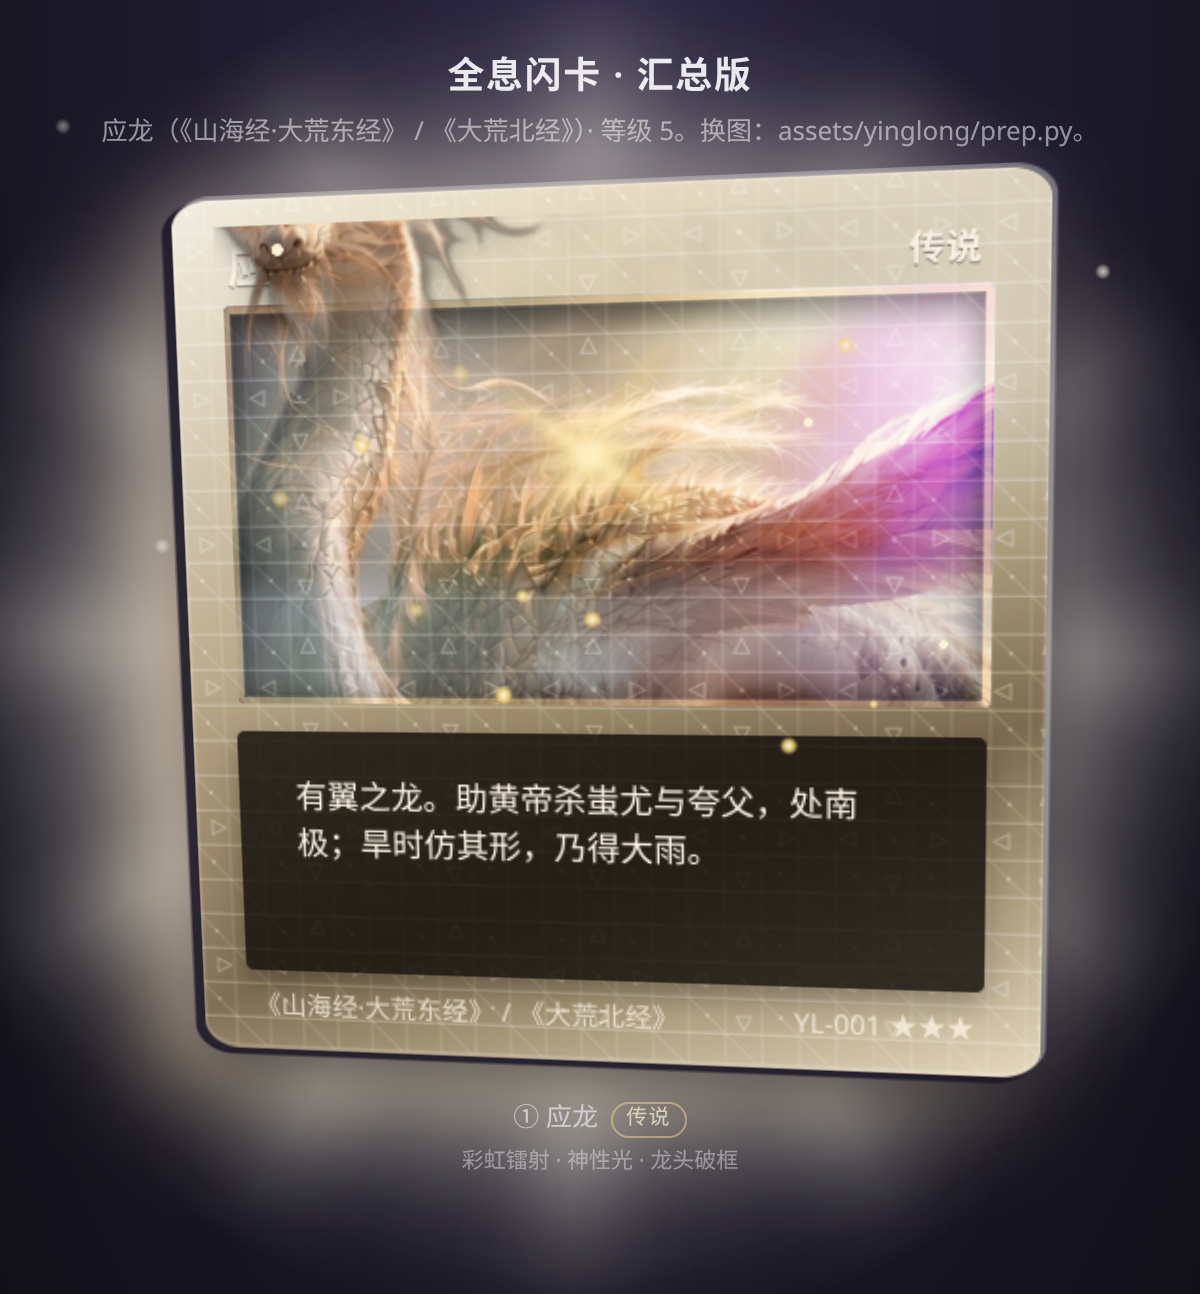
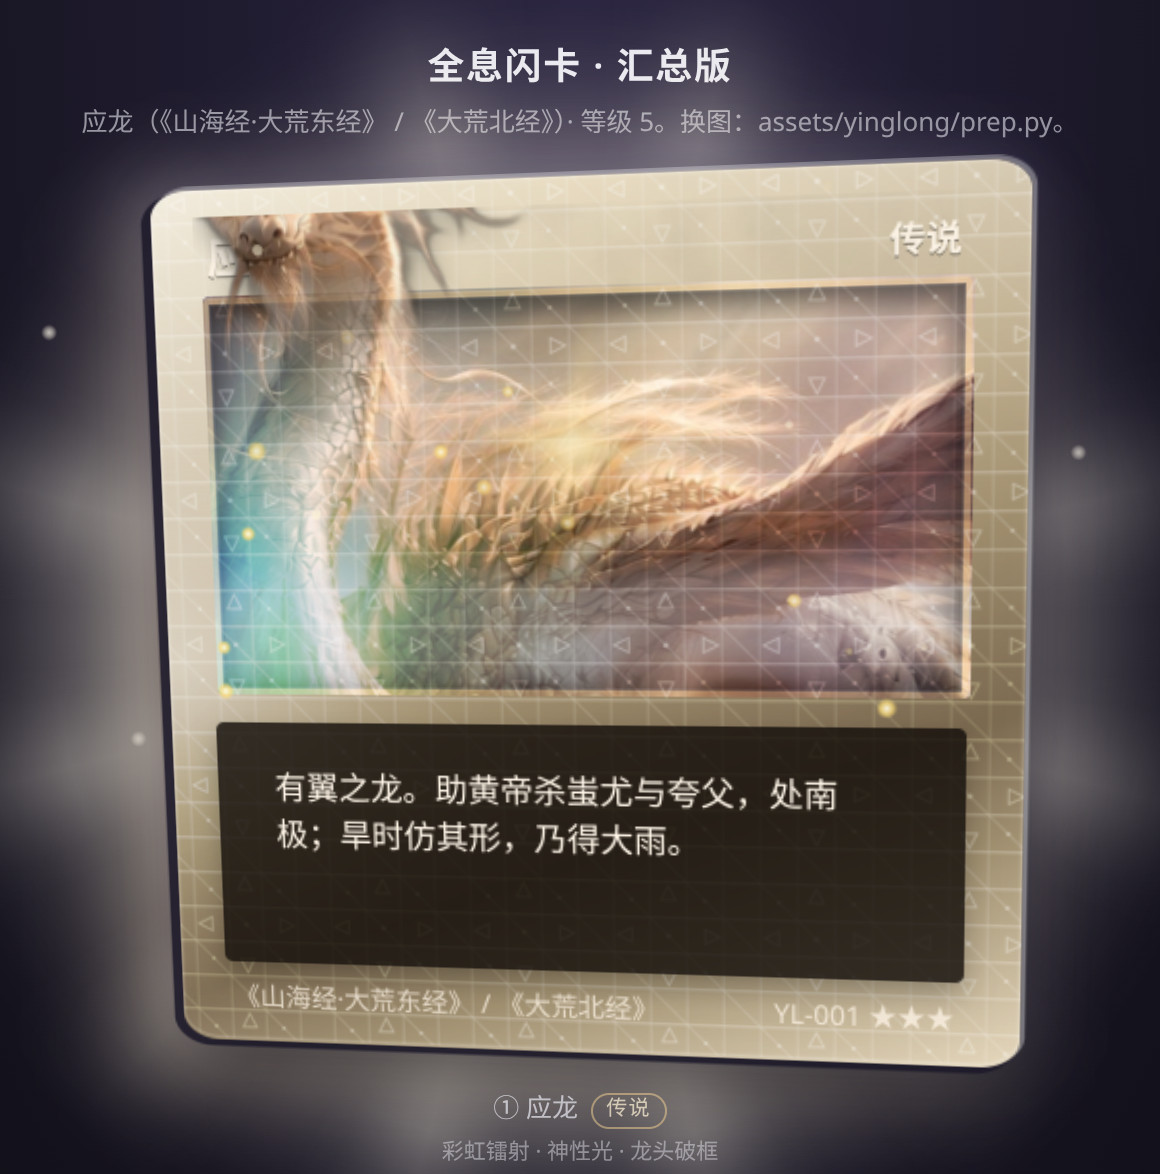
all-in-one: 真实闪卡反光（固定光源 + 倾斜扫箔）；应龙文案/样张/破框克制
指针/陀螺仪只驱动倾斜；--px/--py 由 lightFromTilt(rx,ry) 相对固定环境光导出。
应龙用大荒东经/北经短版与 d0d06c99 样张；破框与粒子外溢收进框内。

diff --git a/index.html b/index.html
@@ -441,14 +441,14 @@ p.tip { margin: 0; opacity: .6; font-size: 13px; max-width: 42em; line-height: 1
   pointer-events: none;
 }
 
-/* 指针在“远景层自身坐标”里的位置（远景层比卡片小、且偏上，需要换算） */
+/* 倾斜反射光在远景层坐标里的落点（--px/--py 由 JS 按固定环境光 + rx/ry 导出，不是指针 UV） */
 .win__bg {
   --lx: calc(var(--px) / 100 * var(--card-w) - (var(--win-l) * var(--card-w) - var(--bleed)));
   --ly: calc(var(--py) / 100 * var(--card-h) - (var(--win-t) * var(--card-h) - var(--bleed)));
 }
 
-/* 指针附近才明显、远处很淡的遮罩（多段色标近似 smoothstep，没有一圈“光的边缘”）
-   插画箔：以像素为半径（远景层尺寸与卡片不同）；卡框箔：以百分比为半径（卡框 = 整张卡） */
+/* 反射高光附近才明显、远处很淡的遮罩（多段色标近似 smoothstep）
+   插画箔：以像素为半径；卡框箔：以百分比为半径。落点随倾斜扫过，非指哪亮哪 */
 .foil { --far: .15; }
 .foil--art {
   --reach-px: 170px;
@@ -467,7 +467,7 @@ p.tip { margin: 0; opacity: .6; font-size: 13px; max-width: 42em; line-height: 1
 }
 .foil--frame {
   --reach-pct: 60%;
-  --pointer-mask: radial-gradient(circle at calc(var(--px) * 1%) calc(var(--py) * 1%),
+  --pointer-mask: radial-gradient(circle at calc(var(--px) * 1%) calc(var(--py) * 1%),  /* 名称为历史遗留：实为倾斜反射光 */
     #000 0%,
     rgba(0,0,0, calc(var(--far) + (1 - var(--far)) * .85)) calc(var(--reach-pct) * .25),
     rgba(0,0,0, calc(var(--far) + (1 - var(--far)) * .5))  calc(var(--reach-pct) * .5),
@@ -495,7 +495,7 @@ p.tip { margin: 0; opacity: .6; font-size: 13px; max-width: 42em; line-height: 1
 /* inverse：反闪 → 只有卡框箔（插画窗口不透明挡住；文字面板半透明透出箔光），关掉插画箔 */
 .card[data-mask="inverse"] .foil--art { display: none; }
 
-/* ---------- 高光：跟随指针的柔和光斑（在卡框层平面内：盖住卡框与窗口，但不盖文字和角色） ---------- */
+/* ---------- 高光：固定环境光在倾斜卡面上的镜面斑（盖住卡框与窗口，不盖文字和角色） ---------- */
 .glare {
   --glare-strength: .45;
   --glare-r: 180px;
@@ -507,7 +507,8 @@ p.tip { margin: 0; opacity: .6; font-size: 13px; max-width: 42em; line-height: 1
     rgba(255,255,255, calc(var(--glare-strength) * .07)) 80%,
     rgba(255,255,255, 0) 100%);
   mix-blend-mode: overlay;
-  opacity: var(--o);
+  /* 悬停增强 + 倾斜时也保留一点膜面反光 */
+  opacity: calc(var(--o) * 0.75 + var(--tilt) * 0.35);
 }
 
 /* ---------- 边缘光（假菲涅尔）：倾斜越大，卡缘越亮（来自 foil-mask） ---------- */
@@ -560,7 +561,7 @@ p.tip { margin: 0; opacity: .6; font-size: 13px; max-width: 42em; line-height: 1
   background-blend-mode: soft-light;
   filter: brightness(calc(.6 + var(--dist) * .25)) contrast(1.1) saturate(1.15);
   mix-blend-mode: color-dodge;
-  opacity: calc(var(--o) * var(--holo-max));
+  opacity: calc((0.14 + var(--o) * 0.86) * var(--holo-max) * (0.4 + var(--tilt) * 0.6));
 }
 
 /* ---- 闪光星点 ---- */
@@ -580,7 +581,7 @@ p.tip { margin: 0; opacity: .6; font-size: 13px; max-width: 42em; line-height: 1
     calc(var(--px) * 0.7px) calc(var(--py) * 0.6px),
     calc(var(--px) * 1%) calc(var(--py) * 1%);
   mix-blend-mode: color-dodge;
-  opacity: calc(var(--o) * var(--glitter-max));
+  opacity: calc((0.12 + var(--o) * 0.88) * var(--glitter-max) * (0.4 + var(--tilt) * 0.6));
 }
 
 /* ---- 金属拉丝 ---- */
@@ -2018,7 +2019,7 @@ body.no-rarity .pk .pk__zoom .card .layer--sfx { display: none; }
 
 <script>
 /* =========================================================
-   交互：指针 / 陀螺仪 → 目标值 → 物理弹簧（按真实时间积分，与屏幕刷新率无关）→ CSS 变量
+   交互：指针 / 陀螺仪只驱动倾斜；镭射/高光位置由固定环境光相对倾斜角反射得到 → 弹簧 → CSS 变量
    性能：
      · 每张卡各自一个 rAF 循环，只在弹簧还在动时运行 → 只有正在交互的那张卡在跑动画
      · 体感只驱动视口里的卡（IntersectionObserver）；滚出视口的卡粒子动画暂停
@@ -2040,6 +2041,16 @@ const FX_NAMES = { foil: '镭射', etch: '压纹', rim: '边缘光', depth: '视
 
 const reduceMotion = window.matchMedia('(prefers-reduced-motion: reduce)');
 const clamp = (v, min = 0, max = 100) => Math.min(max, Math.max(min, v));
+/** 固定环境光（斜上方偏左）：反光 UV 随倾斜扫过卡面，不是指针聚光灯 */
+const LIGHT = { u0: 40, v0: 34, sweepX: 36, sweepY: 32 };  // 静止偏左上；满倾扫到对角侧，少贴 0/100 边
+/** rx/ry（度）→ 箔面/高光落点（卡面 %）。右缘抬起时高光向左扫，下缘抬起时高光向上扫。 */
+function lightFromTilt(rx, ry) {
+  const t = CONFIG.maxTilt || 1;
+  return {
+    px: clamp(LIGHT.u0 + (rx / t) * LIGHT.sweepX),
+    py: clamp(LIGHT.v0 - (ry / t) * LIGHT.sweepY),
+  };
+}
 const $ = (s, root = document) => root.querySelector(s);
 const $$ = (s, root = document) => [...root.querySelectorAll(s)];
 
@@ -2075,7 +2086,8 @@ class Spring {
 
 /* ---------- 单张卡 ---------- */
 function setupCard(card) {
-  const motion = new Spring({ rx: 0, ry: 0, px: 50, py: 50 }, CONFIG.follow); // 倾斜 + 光点位置
+  const restL = lightFromTilt(0, 0);
+  const motion = new Spring({ rx: 0, ry: 0, px: restL.px, py: restL.py }, CONFIG.follow); // 倾斜 + 由倾斜导出的反光 UV
   const glow = new Spring({ o: 0 }, CONFIG.fade);                              // 光泽强度
   let raf = 0, last = 0, lastPointerAt = 0, pointerActive = false;
   const self = { el: card, visible: true };
@@ -2110,23 +2122,27 @@ function setupCard(card) {
     kick();
   };
   const settle = () => {
-    if (gyro.enabled && gyro.pose && !reduceMotion.matches) {   // 体感开着：回到体感姿态
-      const p = gyro.pose; applyPose(p.rx, p.ry, p.px, p.py, 1, CONFIG.settle); return;
+    if (gyro.enabled && gyro.pose && !reduceMotion.matches) {   // 体感开着：回到体感姿态（反光仍由角度导出）
+      const p = gyro.pose; const L = lightFromTilt(p.rx, p.ry);
+      applyPose(p.rx, p.ry, L.px, L.py, 1, CONFIG.settle); return;
     }
-    motion.set({ rx: 0, ry: 0, px: 50, py: 50 }, CONFIG.settle);
+    const L = lightFromTilt(0, 0);
+    motion.set({ rx: 0, ry: 0, px: L.px, py: L.py }, CONFIG.settle);
     glow.set({ o: 0 });
     kick();
   };
 
   const onMove = (e) => {
     lastPointerAt = performance.now(); pointerActive = true;
-    // 用 .card（未旋转的外框）测量：倾斜和破框角色都不会让坐标跳动；破框热区里 py 被限幅为 0
+    // 用 .card（未旋转的外框）测量：只把指针映射成倾斜角；反光 UV 另由 lightFromTilt 算出
     const r = card.getBoundingClientRect();
-    const px = clamp(((e.clientX - r.left) / r.width) * 100);
-    const py = clamp(((e.clientY - r.top) / r.height) * 100);
+    const u = clamp(((e.clientX - r.left) / r.width) * 100);
+    const v = clamp(((e.clientY - r.top) / r.height) * 100);
     const tilt = CONFIG.maxTilt;
     // 指针所在一侧抬向观众：rotateY 负值 → 右边缘靠近；rotateX 正值 → 下边缘靠近
-    applyPose(-((px - 50) / 50) * tilt, ((py - 50) / 50) * tilt, px, py, 1, CONFIG.follow);
+    const rx = -((u - 50) / 50) * tilt, ry = ((v - 50) / 50) * tilt;
+    const L = lightFromTilt(rx, ry);
+    applyPose(rx, ry, L.px, L.py, 1, CONFIG.follow);
   };
   const onLeave = () => { pointerActive = false; lastPointerAt = performance.now(); settle(); };
 
@@ -2145,7 +2161,8 @@ function setupCard(card) {
   /** 陀螺仪驱动：指针正在操作或刚操作过则跳过 */
   self.applyGyro = (p) => {
     if (pointerActive || performance.now() - lastPointerAt < CONFIG.pointerPriorityMs) return;
-    applyPose(p.rx, p.ry, p.px, p.py, 1, CONFIG.follow);
+    const L = lightFromTilt(p.rx, p.ry);
+    applyPose(p.rx, p.ry, L.px, L.py, 1, CONFIG.follow);
   };
   self.settle = (force) => { if (force || !pointerActive) settle(); };
   self.paint = render;
@@ -2160,10 +2177,11 @@ const gyro = {
 };
 const clampTilt = (v) => Math.min(CONFIG.maxTilt, Math.max(-CONFIG.maxTilt, v));
 function mapOrientation(beta, gamma) {
-  // 相对零点；限幅后映射到与指针相同的 rx/ry/px/py。gamma 左右 → rotateY(rx)；beta 前后 → rotateX(ry)
+  // 相对零点 → rx/ry；反光 UV 与指针模式同一套 lightFromTilt。gamma 左右 → rotateY(rx)；beta 前后 → rotateX(ry)
   const rx = clampTilt(((gamma - gyro.zeroGamma) / CONFIG.gyroRange) * CONFIG.maxTilt);
   const ry = clampTilt(((beta - gyro.zeroBeta) / CONFIG.gyroRange) * CONFIG.maxTilt);
-  return { rx, ry, px: clamp(50 - (rx / CONFIG.maxTilt) * 50), py: clamp(50 + (ry / CONFIG.maxTilt) * 50) };
+  const L = lightFromTilt(rx, ry);
+  return { rx, ry, px: L.px, py: L.py };
 }
 function onDeviceOrientation(e) {
   if (!gyro.enabled || e.beta == null || e.gamma == null) return;   // 部分桌面会触发但值为 null
